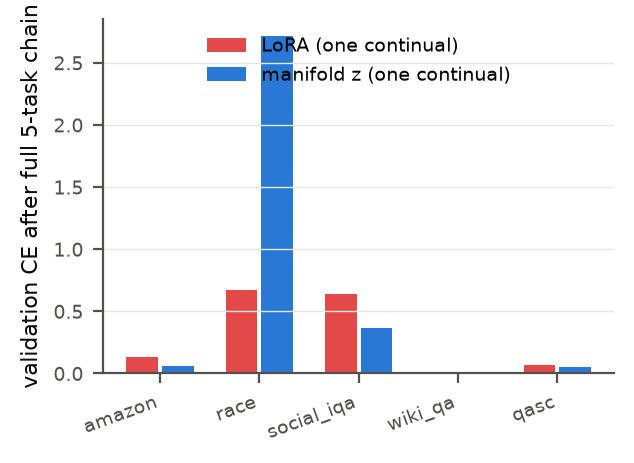
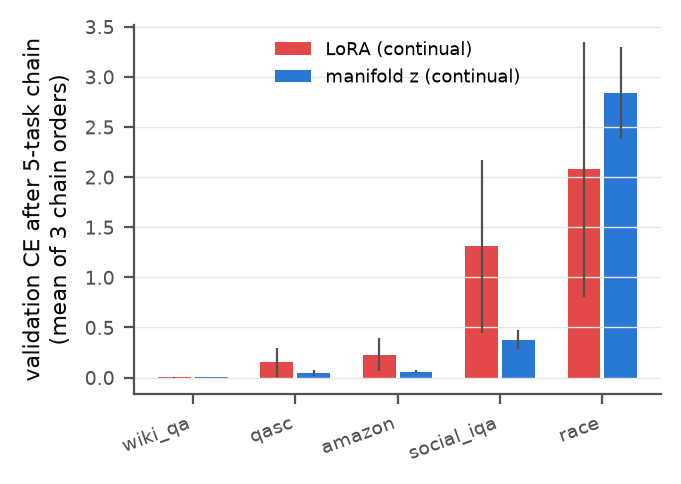
Update .gitignore, README, and add prior baseline results
- Added publishing notes to .gitignore
- Revised text in README for clarity
- Updated multiple figures in the paper
- Implemented prior baseline evaluation in step14_prior_baseline.py
- Added prior baseline results to prior_baseline.json
- Corrected year in references.bib

diff --git a/03_lora_spectrum/step14_prior_baseline.py b/03_lora_spectrum/step14_prior_baseline.py
@@ -1,0 +1,105 @@
+"""Prior baseline (reviewer point): does constrained adaptation do better than
+its own starting point, the frozen pool-mean adapter?
+
+Constrained adaptation starts from z=0, which decodes to the mean of the pool
+(family-excluded). This measures, per task, the clean exact match of:
+  base          the un-adapted model,
+  mean adapter  z=0, no training (the prior the method starts from),
+and prints them next to the z-adapted clean number from poison_flip.json. If the
+z-adapted score clearly beats the mean adapter, the method learns beyond staying
+near its prior. CPU is enough (evaluation only, no training).
+Output: results/prior_baseline.json.
+"""
+import os, json
+import numpy as np
+import torch
+from datasets import load_dataset
+from transformers import AutoTokenizer, AutoModelForSeq2SeqLM
+
+HERE = os.path.dirname(os.path.abspath(__file__))
+ADIR = os.path.join(HERE, "adapters"); RDIR = os.path.join(HERE, "results")
+OUT = os.path.join(RDIR, "prior_baseline.json")
+SCALING, N_EVAL, r = 2.0, 64, 16
+DEVICE = "cuda" if torch.cuda.is_available() else "cpu"
+TASKS = ["wiki_qa_Is_This_True_", "qasc_is_correct_1",
+         "amazon_polarity_Is_this_product_review_positive",
+         "social_i_qa_Check_if_a_random_answer_is_valid_or_not",
+         "race_middle_Select_the_best_answer"]
+PREFIXES = ("amazon_polarity", "social_i_qa", "wiki_qa", "race_middle", "race_high", "qasc")
+def fam(n):
+    t = n.split("-", 1)[1] if "-" in n else n
+    for p in PREFIXES:
+        if t.startswith(p): return p
+    return t.split("_")[0]
+
+names = sorted(d for d in os.listdir(ADIR) if os.path.exists(os.path.join(ADIR, d, "adapter_model.bin")))
+name_of = {n.split("-", 1)[1]: n for n in names}
+
+def load_delta(name):
+    sd = torch.load(os.path.join(ADIR, name, "adapter_model.bin"), map_location="cpu", weights_only=True)
+    A, B = {}, {}
+    for k, v in sd.items():
+        m = k.replace("base_model.model.", "").replace(".lora_A.weight", "").replace(".lora_B.weight", "")
+        (A if "lora_A" in k else B)[m] = v.float()
+    return {m: B[m] @ A[m] for m in A}
+
+mods = sorted(load_delta(names[0]).keys())
+
+tok = AutoTokenizer.from_pretrained("google/flan-t5-large")
+model = AutoModelForSeq2SeqLM.from_pretrained("google/flan-t5-large", torch_dtype=torch.float32).eval().to(DEVICE)
+params = dict(model.named_parameters())
+base_w = {m: params[m + ".weight"].detach().clone() for m in mods}
+
+def apply(delta):
+    with torch.no_grad():
+        for m in mods:
+            w = params[m + ".weight"]; w.copy_(base_w[m])
+            if delta is not None: w.add_(delta[m].to(w.device), alpha=SCALING)
+
+def stream(task):
+    for sp in ("validation", "test"):
+        try:
+            d = load_dataset("bigscience/P3", task, split=sp, streaming=True); ps = []
+            for ex in d:
+                ps.append((ex["inputs_pretokenized"].strip(), ex["targets_pretokenized"].strip()))
+                if len(ps) >= 256: break
+            if len(ps) >= N_EVAL: return ps
+        except Exception: pass
+    return None
+
+def norm(s): return " ".join(s.lower().strip().rstrip(".").split())
[email redacted]_grad()
+def em(pairs):
+    h = 0
+    for i in range(0, len(pairs), 8):
+        ch = pairs[i:i + 8]
+        enc = {k: v.to(DEVICE) for k, v in tok([a for a, _ in ch], max_length=192, truncation=True,
+               padding=True, return_tensors="pt").items()}
+        gen = model.generate(**enc, max_new_tokens=6, num_beams=1, do_sample=False)
+        for d, (_, t) in zip(tok.batch_decode(gen, skip_special_tokens=True), ch): h += norm(d) == norm(t)
+    return h / len(pairs)
+
+# mean adapter = average of family-excluded pool deltas (what z=0 decodes to)
+PF = json.load(open(os.path.join(RDIR, "poison_flip.json"))) if os.path.exists(os.path.join(RDIR, "poison_flip.json")) else {}
+R = json.load(open(OUT)) if os.path.exists(OUT) else {}
+for task in TASKS:
+    if task in R: continue
+    tf = fam(name_of[task])
+    others = [n for n in names if fam(n) != tf]
+    mean_delta = {m: torch.zeros_like(base_w[m]) for m in mods}
+    for n in others:
+        d = load_delta(n)
+        for m in mods: mean_delta[m] += d[m]
+    for m in mods: mean_delta[m] /= len(others)
+    rg = np.random.default_rng(0)
+    va = stream(task); val = [va[int(j)] for j in rg.permutation(len(va))[:N_EVAL]]
+    apply(None);       base = em(val)
+    apply(mean_delta); mean = em(val)
+    apply(None)
+    z_clean = np.mean([PF[task][f"zman_clean_s{s}"]["em_val"] for s in (0, 1, 2)]) if task in PF else None
+    R[task] = {"base": round(base, 3), "mean_adapter": round(mean, 3),
+               "z_adapted_clean": round(float(z_clean), 3) if z_clean is not None else None,
+               "n_pool": len(others)}
+    print(f"{task[:34]:36} base={base:.3f} mean_adapter={mean:.3f} z_clean={z_clean}", flush=True)
+    json.dump(R, open(OUT, "w"), indent=1)
+print("FIN")

diff --git a/paper/main.tex b/paper/main.tex
@@ -43,10 +43,12 @@ learner keeps 62--96 percent on the tasks the pool covers; (3) the constrained
 learner cannot fit corrupted data, its adaptation loss separating clean from
 garbage by two orders of magnitude ($120\times$), an out-of-distribution signal
 for free; and (4) against an adaptive backdoor attacker who optimizes within the
-subspace, the attack is blocked (8 percent success versus 100 for LoRA) exactly
-when its target behavior is unlike anything in the pool, and only partially
-blocked when the target coincides with a common pool behavior, so the boundary
-is real but pool-relative and predictable a priori. The mechanism trades peak
+subspace, the attack is blocked (8 percent success versus 100 for LoRA) on the
+task where its target behavior is unlike anything in the pool, and only partially
+blocked (85 percent) when the target coincides with a common pool behavior. On
+these two tasks the outcome is consistent with how close the target is to the
+pool's directions, which suggests but does not establish a pool-relative
+boundary. The mechanism trades peak
 plasticity for these properties: on tasks the pool covers poorly, unconstrained
 fine-tuning
 wins, and the guarantee assumes the pool itself is trusted. Code and data are
@@ -250,7 +252,7 @@ harmful one.
   \end{tabular}
 \end{table}
 
-\subsection{OOD detection}
+\subsection{Incompatibility signal (a pool-relative OOD detector)}
 \begin{figure}[t]
   \centering
   \includegraphics[width=0.55\linewidth]{figures/fig4_ood.pdf}
@@ -351,6 +353,19 @@ to plain LoRA. A norm penalty does not restrict \emph{which} solutions are
 reachable, only how fast they are reached, so it offers no poison resistance.
 The constraint is doing something a regularizer cannot.
 
+A fourth control addresses an asymmetry in the comparison: constrained
+adaptation starts from $z=0$, which decodes to the pool-mean adapter, a
+non-trivial prior, whereas LoRA starts from a near-zero update. One might worry
+that the poison resistance is just the method staying near a good starting
+point. It is not: on the four pool-covered tasks the frozen mean adapter alone
+(no training) reaches only 0.19 to 0.53 exact match on clean data, while
+adaptation in the subspace reaches 0.68 to 0.99 (for example wiki\_qa 0.44 to
+0.99, social\_iqa 0.19 to 0.68). The method learns substantially beyond its
+prior; the prior is part of the method, and we report its standalone score so
+the improvement is visible. On race, where the pool is weak, the mean adapter
+and the adapted model are both near the base (0.11 and 0.13), consistent with
+the plasticity ceiling.
+
 \begin{table}[t]
   \centering
   \caption{Controls, exact match, mean over 3 seeds. Family holdout removes all
@@ -398,15 +413,16 @@ The result is not uniform, and the non-uniformity is the finding. Unconstrained
 LoRA plants the backdoor at will (attack success 0.84 to 1.00 while keeping
 clean accuracy, 1.00 when pushed maximally). Constrained adaptation blocks it on
 amazon (ceiling 0.08) but not on social\_iqa (ceiling 0.85). The difference is
-predicted by the same principle as the rest of the paper: the backdoor is
-blocked exactly when its target behavior lies outside the pool's common
+consistent with the same principle as the rest of the paper: the backdoor
+appears blocked when its target behavior lies outside the pool's common
 directions. On amazon the target ``output negative regardless of sentiment''
-contradicts every sentiment adapter, so no $z$ expresses it; on social\_iqa the
-task is itself a yes/no validity judgment, ``always No'' is a frequent pool
-direction, and the trigger latches onto it. The security boundary is therefore
-real but pool-relative, and its strength is predictable a priori from whether
-the feared behavior is representable in the pool. This turns a binary claim
-(``it blocks backdoors'') into a characterized one (``it blocks backdoors whose
+contradicts every sentiment adapter, so no $z$ we found expresses it; on
+social\_iqa the task is itself a yes/no validity judgment, ``always No'' is a
+frequent pool direction, and the trigger latches onto it. With two tasks we
+cannot claim a general law, only a plausible and testable one: the security
+boundary looks pool-relative, and its strength may be anticipated from whether
+the feared behavior is representable in the pool. This moves a binary claim
+(``it blocks backdoors'') toward a characterized one (``it blocks backdoors whose
 target is not already a pool behavior''), which is the more defensible and more
 useful statement.
 
@@ -436,9 +452,10 @@ optimized triggers.
 \textbf{Plasticity ceiling.} Performance is capped by pool coverage; on
 poorly-covered tasks (race) unconstrained fine-tuning wins on clean data.
 \textbf{Scope and baselines.} Single base model, single pool, English P3 tasks,
-independently trained adapters. Section~\ref{sec:controls} passes three controls
-(dataset-family holdout, random subspace, and strong-regularization LoRA). A
-DoRA variant and EigenLoRAx as a direct comparison remain to be run.
+independently trained adapters. Section~\ref{sec:controls} passes four controls
+(dataset-family holdout, random subspace, strong-regularization LoRA, and a
+frozen prior baseline). A DoRA variant and EigenLoRAx as a direct comparison
+remain to be run.
 
 \section{Conclusion}
 Restricting adaptation to a subspace estimated from trusted adapters turns three

diff --git a/paper/figures/make_figures.py b/paper/figures/make_figures.py
@@ -127,21 +127,27 @@ ax.set_ylabel("final adaptation loss (log)")
 ax.grid(axis="y")
 save(fig, "fig4_ood")
 
-# ---------- fig 5 : oubli sequentiel, CE finale par tache (seed 0) ----------
+# ---------- fig 5 : oubli sequentiel, CE finale par tache, MOYENNE sur seeds ----------
 SEQ = json.load(open(os.path.join(RES, "sequential.json")))
 sh = {"wiki_qa_Is_This_True_": "wiki_qa", "qasc_is_correct_1": "qasc",
       "amazon_polarity_Is_this_product_review_positive": "amazon",
       "social_i_qa_Check_if_a_random_answer_is_valid_or_not": "social_iqa",
       "race_middle_Select_the_best_answer": "race"}
-order = SEQ["lora_s0"]["order"]
-lf = SEQ["lora_s0"]["matrix"][-1]; zf = SEQ["zman_s0"]["matrix"][-1]
-fig, ax = plt.subplots(figsize=(3.3, 2.3))
-x = np.arange(len(order)); w = 0.36
-ax.bar(x - w / 2, [lf[t] for t in order], w - 0.04, color=RED, label="LoRA (one continual)")
-ax.bar(x + w / 2, [zf[t] for t in order], w - 0.04, color=BLUE, label="manifold z (one continual)")
-ax.set_xticks(x); ax.set_xticklabels([sh[t] for t in order], rotation=20, ha="right")
-ax.set_ylabel("validation CE after full 5-task chain")
-ax.grid(axis="y"); ax.legend(frameon=False, loc="upper center", ncols=1)
+seeds5 = [k.split("_s")[1] for k in SEQ if k.startswith("lora_s")]
+tasks5 = list(sh.keys())
+def final_ce(kind, task):
+    v = [SEQ[f"{kind}_s{s}"]["matrix"][-1][task] for s in seeds5 if f"{kind}_s{s}" in SEQ]
+    return float(np.mean(v)), float(np.std(v))
+fig, ax = plt.subplots(figsize=(3.4, 2.4))
+x = np.arange(len(tasks5)); w = 0.36
+for off, kind, col, nm in ((-w / 2, "lora", RED, "LoRA (continual)"),
+                           (w / 2, "zman", BLUE, "manifold z (continual)")):
+    m = [final_ce(kind, t)[0] for t in tasks5]
+    s = [final_ce(kind, t)[1] for t in tasks5]
+    ax.bar(x + off, m, w - 0.04, color=col, yerr=s, error_kw={"ecolor": MUT, "lw": 0.8}, label=nm)
+ax.set_xticks(x); ax.set_xticklabels([sh[t] for t in tasks5], rotation=20, ha="right")
+ax.set_ylabel(f"validation CE after 5-task chain\n(mean of {len(seeds5)} chain orders)")
+ax.grid(axis="y"); ax.legend(frameon=False, loc="upper center", ncols=1, fontsize=6.5)
 save(fig, "fig5_sequential")
 
 # ---------- fig 6 : generateur AE vs PCA, budget de code egal ----------

diff --git a/README.md b/README.md
@@ -113,11 +113,11 @@ normal one.
 | "is this answer valid?" | 100% | 85% |
 
 On the sentiment task, "always say negative" contradicts every trusted skill, so
-the constrained model cannot learn it. On the validity task, "always say No" is
-already a common behavior in the pool, so the trigger latches onto it. You can
-tell which case you are in before deploying, by checking whether the target
-behavior exists in the pool. Protection equals pool coverage, the same rule as
-everywhere else here.
+the constrained model does not learn it. On the validity task, "always say No" is
+already a common behavior in the pool, so the trigger latches onto it. This is
+only two tasks, so it is a plausible rule of thumb rather than a proven law: the
+protection seems to track whether the target behavior is already representable in
+the pool, the same pattern as everywhere else here.
 
 Other findings, in experiment order:
 